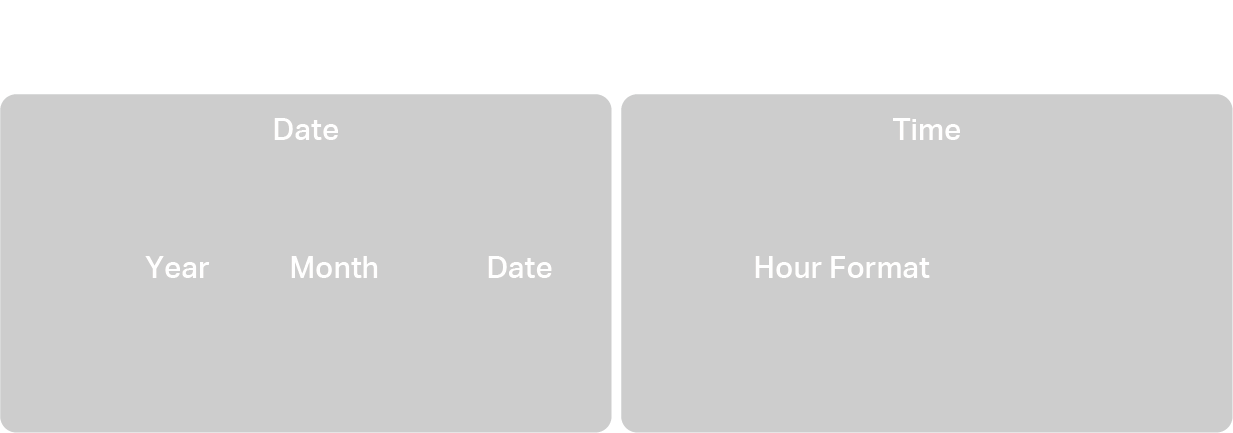
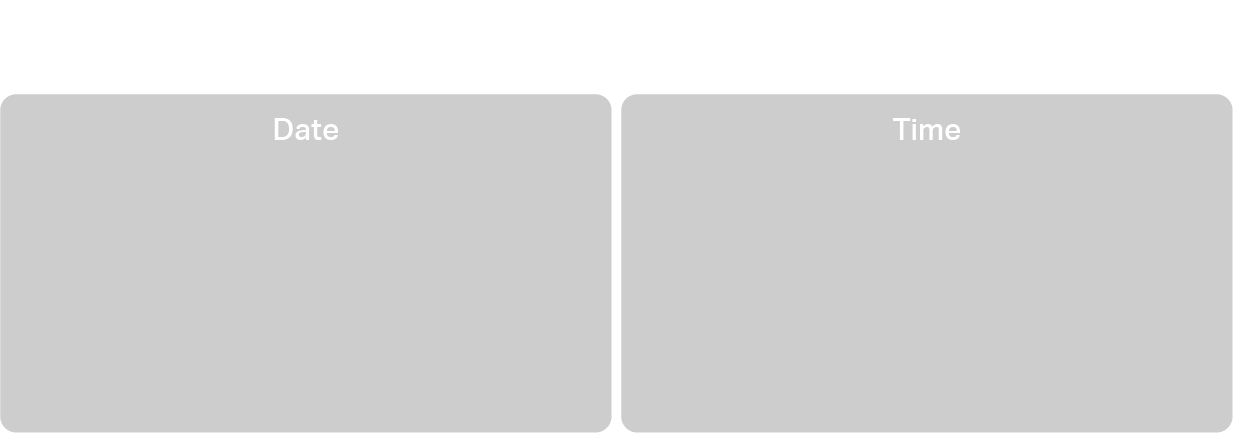
9.12.1

diff --git a/ui_builder/custom/nav_systime.c b/ui_builder/custom/nav_systime.c
@@ -24,9 +24,14 @@ typedef struct {
     lv_obj_t *Set_Month_Lb;
     lv_obj_t *Set_Day_Lb;
     lv_obj_t *Set_Time_Type_Lb;
-    lv_obj_t *Set_Time_span;
-    lv_span_t *Set_Time_span_span_0;
-    lv_span_t *Set_Time_span_span_1;
+    lv_obj_t *Set_Hour_Lb;     /* 时(48 号,独立呼吸) */
+    lv_obj_t *Set_Colon_Lb;    /* 冒号(48 号,常亮不呼吸) */
+    lv_obj_t *Set_Min_Lb;      /* 分(48 号,独立呼吸) */
+    lv_obj_t *Set_AmPm_Lb;     /* 上午/下午(30 号,24h 置空) */
+    lv_obj_t *Year_Unit_Lb;    /* 单位"年"(30 号,随数值整组呼吸) */
+    lv_obj_t *Month_Unit_Lb;   /* "月" */
+    lv_obj_t *Day_Unit_Lb;     /* "日" */
+    lv_obj_t *Type_Unit_Lb;    /* "小时制" */
     lv_obj_t *Underline_Btn;
     lv_group_t *group;
 } systime_page_t;
@@ -80,72 +85,75 @@ static int systime_rtc_set(int year, int month, int wday, int day, int hour, int
 #endif
 }
 
-/* 下划线摆位:两语言两套(同事坐标原样) */
-static void systime_underline_pos(int field)   /* 0..6,0=回 Yes 态(年份位) */
+/* 下划线摆位:0..6,0=Yes 态(停在年份位)。组墨迹按标注图实测外扩约 2px;
+   EN 单位为 Year/Month/Day 较宽,下划线随之加长(数值锚点三语一致) */
+static void systime_underline_pos(int field)
 {
     systime_page_t *scr = systime_get(&ui_manager);
     if (!scr->Underline_Btn) return;
-    static const int en_x[7] = {60, 60, 260, 457, 722, 994, 1060};
-    static const int en_w[7] = {175, 175, 142, 120, 233, 52, 52};
-    static const int cn_x[7] = {108, 108, 289, 440, 776, 994, 1060};
-    static const int cn_w[7] = {138, 138, 79, 82, 145, 50, 50};
+    static const int en_x[7] = {56, 56, 257, 456, 722, 990, 1056};
+    static const int en_w[7] = {179, 179, 146, 124, 233, 58, 58};
+    static const int cn_x[7] = {109, 109, 290, 445, 780, 996, 1061};
+    static const int cn_w[7] = {136, 136, 76, 77, 139, 49, 50};
     if (field < 0 || field > 6) field = 0;
+    /* 线体=纯色矩形(与原 217px 素材居中裁切渲染同位同粗 y318-320);
+       素材 bg img 原尺寸绘制不拉伸,条宽超 217 画不满,故弃用 */
     if (is_english()) {
-        lv_obj_set_pos(scr->Underline_Btn, en_x[field], 305);
-        lv_obj_set_size(scr->Underline_Btn, en_w[field], 30);
+        lv_obj_set_pos(scr->Underline_Btn, en_x[field], 318);
+        lv_obj_set_size(scr->Underline_Btn, en_w[field], 3);
     } else {
-        lv_obj_set_pos(scr->Underline_Btn, cn_x[field], 305);
-        lv_obj_set_size(scr->Underline_Btn, cn_w[field], 30);
+        lv_obj_set_pos(scr->Underline_Btn, cn_x[field], 318);
+        lv_obj_set_size(scr->Underline_Btn, cn_w[field], 3);
     }
 }
 
-/* 按当前编辑位(s_where_time)重登记呼吸组:下划线+当前位数值。
-   时/分共用 HH:MM span(无独立对象),随下划线一起呼吸 */
+/* 按当前编辑位(s_where_time)重登记呼吸组:下划线+当前位数值+单位。
+   时/分独立标签分开呼吸,冒号常亮 */
 static void systime_blink_register(int focused)
 {
     systime_page_t *scr = systime_get(&ui_manager);
     if (!scr->Underline_Btn) return;
-    lv_obj_t *g[2];
+    lv_obj_t *g[4];
     int n = 0;
     g[n++] = scr->Underline_Btn;
     switch (s_where_time) {
-    case 1: if (scr->Set_Year_Lb) g[n++] = scr->Set_Year_Lb; break;
-    case 2: if (scr->Set_Month_Lb) g[n++] = scr->Set_Month_Lb; break;
-    case 3: if (scr->Set_Day_Lb) g[n++] = scr->Set_Day_Lb; break;
-    case 4: if (scr->Set_Time_Type_Lb) g[n++] = scr->Set_Time_Type_Lb; break;
-    case 5:
-    case 6: if (scr->Set_Time_span) g[n++] = scr->Set_Time_span; break;
+    case 1: g[n++] = scr->Set_Year_Lb;      g[n++] = scr->Year_Unit_Lb;  break;
+    case 2: g[n++] = scr->Set_Month_Lb;     g[n++] = scr->Month_Unit_Lb; break;
+    case 3: g[n++] = scr->Set_Day_Lb;       g[n++] = scr->Day_Unit_Lb;   break;
+    case 4: g[n++] = scr->Set_Time_Type_Lb; g[n++] = scr->Type_Unit_Lb;  break;
+    case 5: g[n++] = scr->Set_Hour_Lb;      break;
+    case 6: g[n++] = scr->Set_Min_Lb;       break;
     default: return;
     }
     nav_blink_group_register(scr->Underline_Btn, g, n);
     if (focused) nav_blink_refresh(scr->Underline_Btn);
 }
 
-/* 时间 span 刷新(12h 制用 12 小时表示) */
+/* 时/分标签刷新(12h 制 hour 用 12 小时表示) */
 static void systime_time_span_refresh(void)
 {
     systime_page_t *scr = systime_get(&ui_manager);
-    if (!scr->Set_Time_span_span_0) return;
-    char buf[10];
+    if (!scr->Set_Hour_Lb) return;
     if (s_timetype) {
         int h12 = s_hour % 12;
         if (h12 == 0) h12 = 12;
-        snprintf(buf, sizeof(buf), "%02d:%02d", h12, s_min);
+        lv_label_set_text_fmt(scr->Set_Hour_Lb, "%02d", h12);
     } else {
-        snprintf(buf, sizeof(buf), "%02d:%02d", s_hour, s_min);
+        lv_label_set_text_fmt(scr->Set_Hour_Lb, "%02d", s_hour);
     }
-    lv_span_set_text(scr->Set_Time_span_span_0, buf);
+    if (scr->Set_Min_Lb)
+        lv_label_set_text_fmt(scr->Set_Min_Lb, "%02d", s_min);
 }
 
-/* AM/PM span 刷新(24h 制置空) */
+/* AM/PM 标签刷新(24h 制置空) */
 static void systime_ampm_refresh(void)
 {
     systime_page_t *scr = systime_get(&ui_manager);
-    if (!scr->Set_Time_span_span_1) return;
+    if (!scr->Set_AmPm_Lb) return;
     if (s_timetype)
-        lv_span_set_text(scr->Set_Time_span_span_1, tr(s_hour >= 12 ? "下午" : "上午"));
+        lv_label_set_text(scr->Set_AmPm_Lb, tr(s_hour >= 12 ? "下午" : "上午"));
     else
-        lv_span_set_text(scr->Set_Time_span_span_1, "");
+        lv_label_set_text(scr->Set_AmPm_Lb, "");
 }
 
 /* 当月天数 clamp(年/月变化后调用) */
@@ -168,8 +176,8 @@ void encoder_systime_action(uint8_t key)
         int dir = (key == KEY_ENCODER_CW) ? 1 : -1;
         if (s_where_time == 0) {
             s_where_time = 1;
+            systime_underline_pos(1);   /* 线未聚焦不可见:先摆到年位再聚焦,FOCUSED 出现即已就位 */
             lv_group_focus_obj(scr->Underline_Btn);
-            systime_underline_pos(1);
             systime_blink_register(1);   /* 进入"年"编辑:起呼吸 */
             return;
         }
@@ -238,9 +246,15 @@ void encoder_systime_action(uint8_t key)
         nav_edit_session_enter(focused);   /* 浏览态按确认:重新进编辑(起改当前位) */
         return;
     }
-    /* 编辑中:字段循环 年→月→日→时制→时→分→回"年",保持编辑
-       (两态统一:确认=推进编辑位,写 RTC 走浏览态 Yes;原推进到分后跳 Yes 已移除) */
-    s_where_time = (uint8_t)((s_where_time >= 6) ? 1 : s_where_time + 1);
+    /* 编辑中:字段循环 年→月→日→时制→时→分→确定,确定位再按=写 RTC(与计时器页一致)。
+       分→确定不挪线:线失焦即隐身,停在分位;下次 dive 前先摆位再聚焦,杜绝闪影 */
+    if (s_where_time >= 6) {
+        s_where_time = 0;
+        if (scr->Yes_Btn)
+            lv_group_focus_obj(scr->Yes_Btn);
+        return;
+    }
+    s_where_time++;
     systime_underline_pos(s_where_time);
     systime_blink_register(1);   /* 换位重登记呼吸组:只闪当前位 */
 }
@@ -328,7 +342,7 @@ void jump_to_systime(void)
     lv_obj_set_scrollbar_mode(scr->obj, LV_SCROLLBAR_MODE_OFF);
     lv_obj_set_style_bg_color(scr->obj, lv_color_hex(0xfcfcfc), LV_PART_MAIN | LV_STATE_DEFAULT);
     lv_obj_set_style_bg_opa(scr->obj, 255, LV_PART_MAIN | LV_STATE_DEFAULT);
-    lv_obj_set_style_bg_img_src(scr->obj, LVGL_IMAGE_PATH(used/bg1.jpg), LV_PART_MAIN | LV_STATE_DEFAULT);
+    lv_obj_set_style_bg_img_src(scr->obj, LVGL_IMAGE_PATH(bg.jpg), LV_PART_MAIN | LV_STATE_DEFAULT);
 
     /* 栏目标题整幅底图,按语言三选一(CN/繁體/EN;同事 ui_lang_img 三版本) */
     scr->set_time_bg_txt_Img = lv_img_create(scr->obj);
@@ -395,27 +409,39 @@ void jump_to_systime(void)
     lv_obj_set_style_text_color(scr->Set_Time_Type_Lb, lv_color_hex(0xffffff), LV_PART_MAIN | LV_STATE_DEFAULT);
     lv_obj_set_style_text_align(scr->Set_Time_Type_Lb, LV_TEXT_ALIGN_RIGHT, LV_PART_MAIN | LV_STATE_DEFAULT);
 
-    /* 时间 span(HH:MM + AM/PM) */
-    scr->Set_Time_span = lv_spangroup_create(scr->obj);
-    lv_spangroup_set_mode(scr->Set_Time_span, LV_SPAN_MODE_FIXED);
-    lv_spangroup_set_align(scr->Set_Time_span, LV_TEXT_ALIGN_LEFT);
-    lv_spangroup_set_overflow(scr->Set_Time_span, LV_SPAN_OVERFLOW_CLIP);
+    /* 单位标签(年/月/日/小时制,30 号;随数值整组呼吸;坐标=原底图文字实测位置,见定位块) */
+    scr->Year_Unit_Lb = lv_label_create(scr->obj);
+    lv_label_set_text(scr->Year_Unit_Lb, tr("年"));
+    scr->Month_Unit_Lb = lv_label_create(scr->obj);
+    lv_label_set_text(scr->Month_Unit_Lb, tr("月"));
+    scr->Day_Unit_Lb = lv_label_create(scr->obj);
+    lv_label_set_text(scr->Day_Unit_Lb, tr("日"));
+    scr->Type_Unit_Lb = lv_label_create(scr->obj);
+    lv_label_set_text(scr->Type_Unit_Lb, tr("小时制"));
 
-    scr->Set_Time_span_span_0 = lv_spangroup_new_span(scr->Set_Time_span);
-    lv_style_set_text_font(&scr->Set_Time_span_span_0->style, &c_taiwanpearl_regular_48);
-    lv_style_set_text_color(&scr->Set_Time_span_span_0->style, lv_color_hex(0xffffff));
-    lv_style_set_text_opa(&scr->Set_Time_span_span_0->style, 255);
-    lv_style_set_text_decor(&scr->Set_Time_span_span_0->style, LV_TEXT_DECOR_NONE);
+    /* 时/分独立标签(48 号,分开呼吸)+冒号(常亮)+上午/下午(30 号,24h 置空) */
+    scr->Set_Hour_Lb = lv_label_create(scr->obj);
+    lv_obj_set_size(scr->Set_Hour_Lb, 58, 50);
+    lv_obj_set_style_text_align(scr->Set_Hour_Lb, LV_TEXT_ALIGN_RIGHT, LV_PART_MAIN | LV_STATE_DEFAULT);
+    scr->Set_Colon_Lb = lv_label_create(scr->obj);
+    lv_label_set_text(scr->Set_Colon_Lb, ":");
+    scr->Set_Min_Lb = lv_label_create(scr->obj);
+    lv_obj_set_size(scr->Set_Min_Lb, 58, 50);
+    lv_obj_set_style_text_align(scr->Set_Min_Lb, LV_TEXT_ALIGN_RIGHT, LV_PART_MAIN | LV_STATE_DEFAULT);
+    scr->Set_AmPm_Lb = lv_label_create(scr->obj);
 
-    scr->Set_Time_span_span_1 = lv_spangroup_new_span(scr->Set_Time_span);
-    lv_style_set_text_font(&scr->Set_Time_span_span_1->style, &c_taiwanpearl_regular_30);
-    lv_style_set_text_color(&scr->Set_Time_span_span_1->style, lv_color_hex(0xffffff));
-    lv_style_set_text_opa(&scr->Set_Time_span_span_1->style, 255);
-    lv_style_set_text_decor(&scr->Set_Time_span_span_1->style, LV_TEXT_DECOR_NONE);
-
-    lv_obj_set_size(scr->Set_Time_span, 184, 50);
-    lv_obj_set_style_border_opa(scr->Set_Time_span, 0, LV_PART_MAIN | LV_STATE_DEFAULT);
-    lv_obj_set_style_shadow_opa(scr->Set_Time_span, 0, LV_PART_MAIN | LV_STATE_DEFAULT);
+    lv_obj_t *unit_lbs[4] = {scr->Year_Unit_Lb, scr->Month_Unit_Lb, scr->Day_Unit_Lb, scr->Type_Unit_Lb};
+    for (int i = 0; i < 4; i++) {
+        lv_obj_set_style_text_font(unit_lbs[i], &c_taiwanpearl_regular_30, LV_PART_MAIN | LV_STATE_DEFAULT);
+        lv_obj_set_style_text_color(unit_lbs[i], lv_color_hex(0xffffff), LV_PART_MAIN | LV_STATE_DEFAULT);
+    }
+    lv_obj_t *time_lbs[4] = {scr->Set_Hour_Lb, scr->Set_Colon_Lb, scr->Set_Min_Lb, scr->Set_AmPm_Lb};
+    const lv_font_t *time_fonts[4] = {&c_taiwanpearl_regular_48, &c_taiwanpearl_regular_48,
+                                      &c_taiwanpearl_regular_48, &c_taiwanpearl_regular_30};
+    for (int i = 0; i < 4; i++) {
+        lv_obj_set_style_text_font(time_lbs[i], time_fonts[i], LV_PART_MAIN | LV_STATE_DEFAULT);
+        lv_obj_set_style_text_color(time_lbs[i], lv_color_hex(0xffffff), LV_PART_MAIN | LV_STATE_DEFAULT);
+    }
 
     /* Init scr->Underline_Btn */
     scr->Underline_Btn = lv_btn_create(scr->obj);
@@ -427,40 +453,55 @@ void jump_to_systime(void)
     lv_obj_set_style_border_width(scr->Underline_Btn, 0, LV_PART_MAIN | LV_STATE_DEFAULT);
     lv_obj_set_style_shadow_opa(scr->Underline_Btn, 0, LV_PART_MAIN | LV_STATE_DEFAULT);
     lv_obj_set_style_shadow_width(scr->Underline_Btn, 0, LV_PART_MAIN | LV_STATE_DEFAULT);
-    lv_obj_set_style_bg_opa(scr->Underline_Btn, 0, LV_PART_MAIN | LV_STATE_FOCUSED);
-    lv_obj_set_style_bg_img_src(scr->Underline_Btn, LVGL_IMAGE_PATH(used/HowWellDone_underline.png), LV_PART_MAIN | LV_STATE_FOCUSED);
+    lv_obj_set_style_bg_color(scr->Underline_Btn, lv_color_hex(0xffffff), LV_PART_MAIN | LV_STATE_FOCUSED);
+    lv_obj_set_style_bg_opa(scr->Underline_Btn, 255, LV_PART_MAIN | LV_STATE_FOCUSED);
     lv_obj_set_style_border_opa(scr->Underline_Btn, 0, LV_PART_MAIN | LV_STATE_FOCUSED);
     lv_obj_set_style_shadow_opa(scr->Underline_Btn, 0, LV_PART_MAIN | LV_STATE_FOCUSED);
 
-    /* 字段/下划线坐标(中英两套,同事数值原样) */
+    /* 字段坐标(标注图实测;英文单位 Year/Month/Day/AM-PM 较宽,单独分支便于微调):
+       数值右对齐锚点 年217/月340/日494/时制833/时1044/分1110;
+       单位/AM-PM 左对齐=数值右缘+4px;y 与原渲染一致 */
+    lv_obj_align(Yes_Btn_label, LV_ALIGN_CENTER, 0, 0);
     if (is_english()) {
-        lv_obj_align(Yes_Btn_label, LV_ALIGN_CENTER, 0, 3);
-        lv_obj_set_pos(scr->Set_Year_Lb, 50, 264);
-        lv_obj_set_pos(scr->Set_Month_Lb, 243, 264);
-        lv_obj_set_pos(scr->Set_Day_Lb, 440, 264);
-        lv_obj_set_pos(scr->Set_Time_Type_Lb, 706, 264);
-        lv_obj_set_pos(scr->Set_Time_span, 991, 264);
+        lv_obj_set_pos(scr->Set_Year_Lb, 47, 264);      /* 盒宽120,墨迹右缘217 */
+        lv_obj_set_pos(scr->Set_Month_Lb, 243, 264);    /* 盒宽70,墨迹右缘340 */
+        lv_obj_set_pos(scr->Set_Day_Lb, 439, 264);      /* 盒宽70,墨迹右缘494 */
+        lv_obj_set_pos(scr->Set_Time_Type_Lb, 707, 264);/* 盒宽70,墨迹右缘833 */
+        lv_obj_set_pos(scr->Set_Hour_Lb, 988, 263);     /* 盒宽58,墨迹右缘1044 */
+        lv_obj_set_pos(scr->Set_Colon_Lb, 1046, 262);   /* 冒号墨迹左缘 */
+        lv_obj_set_pos(scr->Set_Min_Lb, 1057, 263);     /* 盒宽58,墨迹右缘1110 */
+        lv_obj_set_pos(scr->Set_AmPm_Lb, 1116, 277);
+        lv_obj_set_pos(scr->Year_Unit_Lb, 169, 277);
+        lv_obj_set_pos(scr->Month_Unit_Lb, 314, 277);
+        lv_obj_set_pos(scr->Day_Unit_Lb, 510, 277);
+        lv_obj_set_pos(scr->Type_Unit_Lb, 778, 277);
     } else {
-        lv_obj_align(Yes_Btn_label, LV_ALIGN_CENTER, 0, 0);
-        lv_obj_set_pos(scr->Set_Year_Lb, 96, 260);
-        lv_obj_set_pos(scr->Set_Month_Lb, 272, 260);
-        lv_obj_set_pos(scr->Set_Day_Lb, 424, 260);
-        lv_obj_set_pos(scr->Set_Time_Type_Lb, 761, 260);
-        lv_obj_set_pos(scr->Set_Time_span, 991, 260);
+        lv_obj_set_pos(scr->Set_Year_Lb, 97, 260);      /* 盒宽120,墨迹右缘217 */
+        lv_obj_set_pos(scr->Set_Month_Lb, 270, 260);    /* 盒宽70,墨迹右缘340 */
+        lv_obj_set_pos(scr->Set_Day_Lb, 424, 260);      /* 盒宽70,墨迹右缘494 */
+        lv_obj_set_pos(scr->Set_Time_Type_Lb, 763, 260);/* 盒宽70,墨迹右缘833 */
+        lv_obj_set_pos(scr->Set_Hour_Lb, 988, 260);     /* 盒宽58,墨迹右缘1044 */
+        lv_obj_set_pos(scr->Set_Colon_Lb, 1046, 260);   /* 冒号墨迹左缘 */
+        lv_obj_set_pos(scr->Set_Min_Lb, 1055, 260);     /* 盒宽58,墨迹右缘1110 */
+        lv_obj_set_pos(scr->Set_AmPm_Lb, 1114, 276);
+        lv_obj_set_pos(scr->Year_Unit_Lb, 216, 276);
+        lv_obj_set_pos(scr->Month_Unit_Lb, 343, 276);
+        lv_obj_set_pos(scr->Day_Unit_Lb, 497, 276);
+        lv_obj_set_pos(scr->Type_Unit_Lb, 831, 276);
     }
     systime_underline_pos(0);   /* 0=Yes 态,下划线隐藏待编辑位选定 */
     systime_time_span_refresh();
     systime_ampm_refresh();
 
-    /* 组:Yes → 下划线 */
+    /* 组:Yes → 下划线;group_create_for_page 统一挂 blink 焦点回调
+       (裸 lv_group_add_obj 不挂回调,焦点到 Yes 无人停闪,分钟会一直呼吸) */
+    lv_obj_t *st_btns[2] = { scr->Yes_Btn, scr->Underline_Btn };
     if (scr->group == NULL) {
-        scr->group = lv_group_create();
+        scr->group = group_create_for_page(st_btns, 2);
     } else {
         lv_group_del(scr->group);
-        scr->group = lv_group_create();
+        scr->group = group_create_for_page(st_btns, 2);
     }
-    lv_group_add_obj(scr->group, scr->Yes_Btn);
-    lv_group_add_obj(scr->group, scr->Underline_Btn);
     nav_editable_extra_register(scr->Underline_Btn);   /* 两态:下划线=可编辑对象(page_push 已清表,此处补登记) */
 
     current_group = scr->group;

diff --git a/ui_builder/custom/i18n.c b/ui_builder/custom/i18n.c
@@ -18,6 +18,7 @@ extern const lv_font_t c_aktivgroteskmedium_24;
         { "%s, %d年%d月%d日", "%s, %d/%d/%d" },
         { "1.将除垢剂放入水箱内", "1. Add descaler to the water tank" },
         { "24小时制", "24-hour format" },
+        { "小时制", "Hour Format" },
         { "TFT版本号：", "TFT Version Number" },
         { "|                         | %d℃ | %d小时%02d分钟", "|                                  | %d℃ | %dh %02dm" },
         { "| %s | %dg | %d分钟 |", "| %s | %dg | %d min |" },
@@ -475,7 +476,7 @@ extern const lv_font_t c_aktivgroteskmedium_24;
         { "下午", "PM" },
         { "年", "Year" },
         { "月", "Month" },
-        { "日", "Day" },
+        { "日", "Date" },
         { "时制", "Clock" },
         { "时间", "Time" },
         { "设定模式/设定温度/设定时间", "Set Function/Set Temperature/Set Time" },

diff --git a/ui_builder/custom/nav_count_down.c b/ui_builder/custom/nav_count_down.c
@@ -346,9 +346,9 @@ void encoder_count_down_action(uint8_t key)
             cd_blink_register(1);
         } else {
             s_set_where = 1;
+            lv_group_focus_obj(scr->Yes_Btn);   /* 秒后确认:先移焦点(线随 FOCUSED 消失+停闪),再挪线不闪影 */
             lv_obj_set_pos(scr->Underline_Btn, 588, 306);
-            cd_blink_register(0);   /* 焦点即将离开下划线:只换组,由 Yes 的停闪接管 */
-            lv_group_focus_obj(scr->Yes_Btn);   /* 秒后确认:跳到确定(再按即启动) */
+            cd_blink_register(0);   /* 只换组:下次进"时"编辑前预登记 */
         }
     } else if (focused == scr->Reset_icon_Btn) {
         s_reset_flag = 1;

diff --git a/ui_builder/custom/nav_idle.c b/ui_builder/custom/nav_idle.c
@@ -21,9 +21,9 @@
 #include "nav_idle.h"
 #include "nav_internal.h"
 
-#define NAV_IDLE_TO_COOKING_S   10    /* 烹饪会话无操作回烹饪层 */
-#define NAV_IDLE_TO_STANDBY_S   10   /* 非烹饪无操作进待机 */
-#define NAV_IDLE_TO_POWEROFF_S  10  /* 待机页无操作关机 */
+#define NAV_IDLE_TO_COOKING_S   100    /* 烹饪会话无操作回烹饪层 */
+#define NAV_IDLE_TO_STANDBY_S   100   /* 非烹饪无操作进待机 */
+#define NAV_IDLE_TO_POWEROFF_S  100  /* 待机页无操作关机 */
 
 static uint32_t g_last_activity_ms = 0;
 

diff --git a/ui_builder/custom/nav_system.c b/ui_builder/custom/nav_system.c
@@ -182,6 +182,8 @@ void topflag_update_visibility(void)
 static int nav_topleft_has_text(void)
 {
     if (screen_set_overlay_open()) return 1;
+    /* 日期/时间子页标题烙在底图无标签:视为有文字,图标组居中 */
+    if (depth > 0 && page_stack[depth - 1] == PAGE_SET_SYSTIME) return 1;
     lv_obj_t *scr = lv_scr_act();
     if (!scr) return 0;
     uint32_t n = lv_obj_get_child_count(scr);
